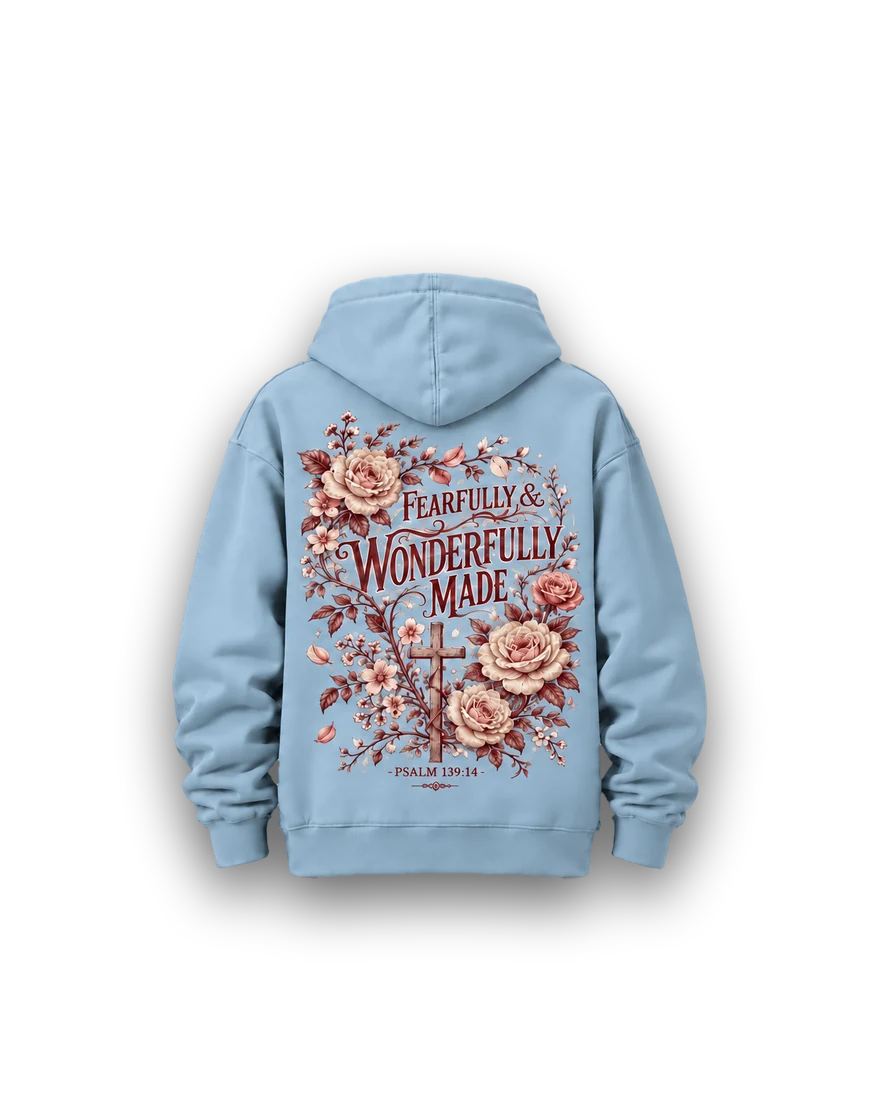
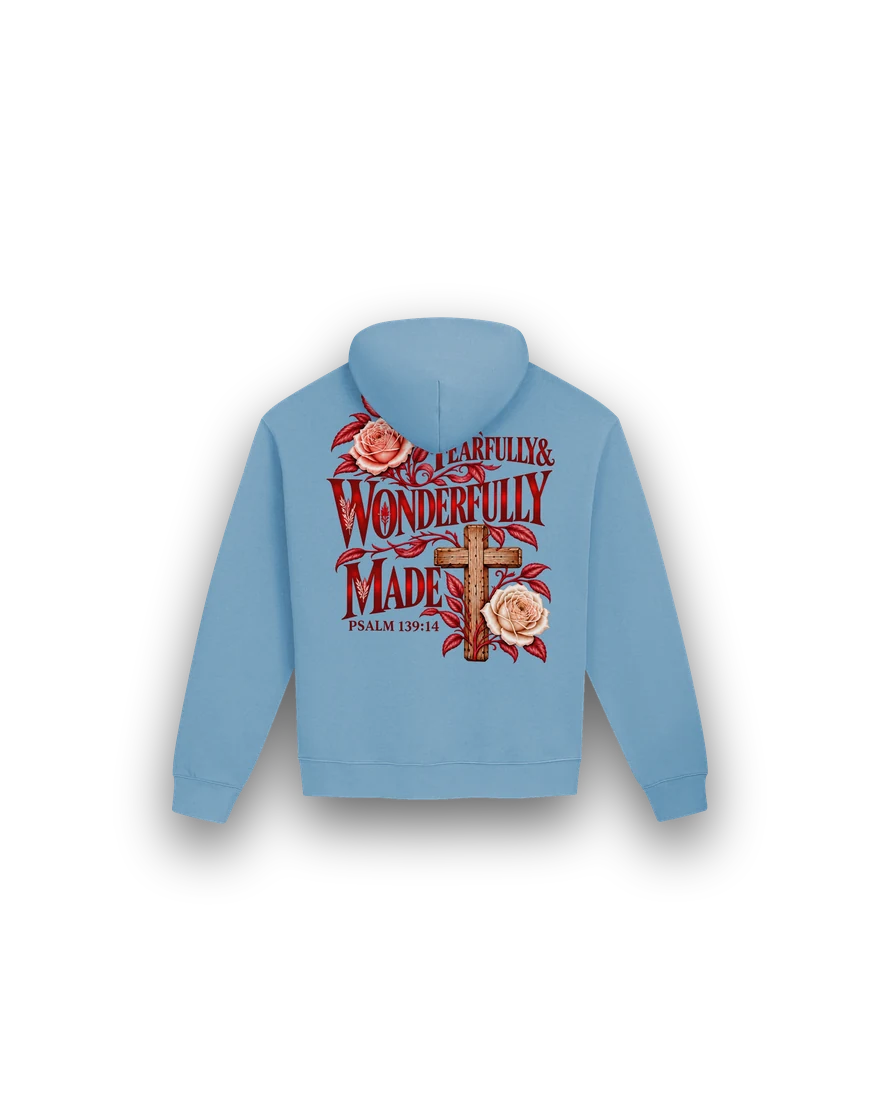
Use the corrected Wonderfully Made print on the site
The back print now spells WONDERFULLY correctly, so Wonderfully Made shows
Fourthwall's renders like the other nine pieces. Its design changed after
the mockup (roses and a cross beside the words), so its close-up is the
print file itself laid on the hoodie's own fabric instead of a mockup crop.
Copy updated to match the new layout.

Claude-Session: https://claude.ai/code/session_01VmqVMxiDGTr2J5oF5LgYP4

Changed region(s): [[0.1841, 0.2473, 0.8284, 0.8655]]

diff --git a/assets/mockups/compose.py b/assets/mockups/compose.py
@@ -59,9 +59,10 @@ CAPS = ("lambs-mark", "signature-cap")
 
 # Views in display order. The first is the listing image and always shows the whole garment.
 # `detail` is a close crop of the main artwork: (view, center x, center y, width), as fractions
-# of the cutout. `detail_source: "mockup"` takes that crop (and the home story scene) from the
-# approved mockup instead of the Fourthwall render: on the hoodie renders the hood hangs over the
-# top of the back print, so the close-up shows the whole design from the mockup.
+# of the cutout. On the hoodie renders the hood hangs over the top of the back print, so hoodie
+# close-ups show the whole design another way: `detail_source: "mockup"` crops the approved mockup
+# (also used for the home story scene), and `"print"` lays the back print file itself on the
+# hoodie's fabric (for a design that changed after its mockup was made).
 VIEWS = {
     "still-the-storm": {"views": ["front", "back"], "detail": ("front", 0.5, 0.5, 0.72)},
     "by-his-hem": {"views": ["back", "front"], "detail": ("back", 0.47, 0.42, 0.74)},
@@ -70,7 +71,7 @@ VIEWS = {
     "stone-in-motion": {"views": ["back", "front"], "detail": ("back", 0.52, 0.45, 0.74)},
     "to-live-is-christ": {"views": ["front", "back"], "detail": ("front", 0.5, 0.48, 0.66)},
     "the-passage": {"views": ["back", "front"], "detail": ("back", 0.5, 0.45, 0.62), "detail_source": "mockup"},
-    "wonderfully-made": {"views": ["back", "front"], "detail": ("back", 0.5, 0.45, 0.62), "detail_source": "mockup"},
+    "wonderfully-made": {"views": ["back", "front"], "detail": ("back", 0.5, 0.45, 0.62), "detail_source": "print"},
     "lambs-mark": {"views": ["front", "side", "back"], "detail": ("front", 0.5, 0.4, 0.56)},
     "signature-cap": {"views": ["front", "side", "back"], "detail": ("front", 0.5, 0.42, 0.52)},
 }
@@ -299,7 +300,8 @@ def story(slug: str) -> None:
     )
 
     # The garment hangs centred in the opening; its shadow falls on the back wall.
-    cutout = load_garment(slug, STORY_VIEW[slug], VIEWS[slug].get("detail_source", "render"))
+    source = VIEWS[slug].get("detail_source", "render")
+    cutout = load_garment(slug, STORY_VIEW[slug], "render" if source == "print" else source)
     hat = slug in CAPS
     open_w = w - 2 * 78
     box_w, box_h = open_w * (0.74 if hat else 0.74), (sill_top - 200) * (0.6 if hat else 0.88)
@@ -322,6 +324,40 @@ def story(slug: str) -> None:
     print(slug, "story")
 
 
+def print_closeup(slug: str, view: str) -> Image.Image:
+    """The back print file on a patch of the garment's own fabric, taken from the render below the
+    print, so the close-up shows the whole design in its real colors with the knit showing through."""
+    garment = load_garment(slug, view)
+    g = np.asarray(garment.convert("RGB"), np.float32) / 255
+    gh, gw = g.shape[:2]
+    patch = g[int(gh * 0.72) : int(gh * 0.84), int(gw * 0.34) : int(gw * 0.66)]
+    # Mirror-tile the patch to fill the frame, then soften the repeat with a little blur.
+    reps = (DETAIL_H // patch.shape[0] + 2, DETAIL_W // patch.shape[1] + 2)
+    tile = np.concatenate([patch, patch[::-1]], 0)
+    tile = np.concatenate([tile, tile[:, ::-1]], 1)
+    fabric = np.tile(tile, (reps[0] // 2 + 1, reps[1] // 2 + 1, 1))[:DETAIL_H, :DETAIL_W]
+    fabric_img = Image.fromarray((fabric * 255).astype(np.uint8)).filter(ImageFilter.GaussianBlur(0.6))
+    fabric = np.asarray(fabric_img, np.float32) / 255
+    yy, xx = np.mgrid[0:DETAIL_H, 0:DETAIL_W].astype(np.float32)
+    v = np.hypot(xx / DETAIL_W - 0.5, yy / DETAIL_H - 0.45)
+    fabric *= (1.04 - 0.16 * np.clip(v / 0.7, 0, 1) ** 2)[..., None]
+
+    art = Image.open(RENDERS / f"{slug}-print.webp").convert("RGBA")
+    scale = min(DETAIL_W * 0.86 / art.width, DETAIL_H * 0.88 / art.height)
+    art = art.resize((round(art.width * scale), round(art.height * scale)), Image.LANCZOS)
+    x, y = (DETAIL_W - art.width) // 2, (DETAIL_H - art.height) // 2
+    a = np.zeros((DETAIL_H, DETAIL_W), np.float32)
+    rgb = np.zeros((DETAIL_H, DETAIL_W, 3), np.float32)
+    arr = np.asarray(art, np.float32) / 255
+    a[y : y + art.height, x : x + art.width] = arr[..., 3]
+    rgb[y : y + art.height, x : x + art.width] = arr[..., :3]
+    # Ink takes on the knit: modulate it by the fabric's local light and shade.
+    luma = fabric.mean(-1, keepdims=True)
+    ink = np.clip(rgb * (luma / max(float(luma.mean()), 1e-3)) ** 0.7, 0, 1)
+    out = fabric * (1 - a[..., None]) + ink * a[..., None]
+    return Image.fromarray((np.clip(out, 0, 1) * 255).round().astype(np.uint8), "RGB")
+
+
 def main() -> None:
     for slug, spec in VIEWS.items():
         folder = OUT / slug
@@ -335,6 +371,11 @@ def main() -> None:
             print(folder.name, view)
 
         view, cx, cy, frac = spec["detail"]
+        if spec.get("detail_source") == "print":
+            print_closeup(slug, view).save(folder / "detail.webp", "WEBP", quality=88, method=6)
+            print(folder.name, "detail (print)")
+            story(slug)
+            continue
         cutout = load_garment(slug, view, spec.get("detail_source", "render"))
         # Crop the artwork, then lay it on the same surface so any edge that shows matches.
         cw = round(cutout.width * frac)

diff --git a/assets/mockups/fourthwall.py b/assets/mockups/fourthwall.py
@@ -2,17 +2,26 @@
 Downloads the product renders from the Fourthwall shop listed in fourthwall.json into
 fourthwall/<slug>-<view>.webp. They are already cut out (transparent background), so compose.py
 places them on each piece's surface directly; these are the item-accurate images the site shows.
-Pieces marked `hold` are skipped and keep their mockup cutouts.
+Pieces marked `hold` are skipped and keep their mockup cutouts. A piece's `print` (its back print
+file) is saved as fourthwall/<slug>-print.webp for compose.py's close-up.
 
     python3 assets/mockups/fourthwall.py
 """
 
+import io
 import json
 import urllib.request
 from pathlib import Path
 
+from PIL import Image
+
 HERE = Path(__file__).parent
 OUT = HERE / "fourthwall"
+
+
+def fetch(url: str) -> bytes:
+    with urllib.request.urlopen(url, timeout=60) as res:
+        return res.read()
 
 
 def main() -> None:
@@ -25,10 +34,15 @@ def main() -> None:
             print(f"{slug}: held ({spec['hold']})")
             continue
         for view, name in spec["views"].items():
-            with urllib.request.urlopen(manifest["base"] + name, timeout=60) as res:
-                data = res.read()
+            data = fetch(manifest["base"] + name)
             (OUT / f"{slug}-{view}.webp").write_bytes(data)
             print(f"{slug}-{view}: {len(data) // 1024} KB")
+        if "print" in spec:
+            # Print files are large PNGs; a 1400px-tall copy is plenty for an 800x1000 close-up.
+            art = Image.open(io.BytesIO(fetch(manifest["base"] + spec["print"]))).convert("RGBA")
+            art.thumbnail((1400, 1400), Image.LANCZOS)
+            art.save(OUT / f"{slug}-print.webp", "WEBP", quality=92, method=6)
+            print(f"{slug}-print: {art.size}")
 
 
 if __name__ == "__main__":

diff --git a/apps/web/AGENTS.md b/apps/web/AGENTS.md
@@ -54,7 +54,7 @@ src/
 - **Styling**: brand classes (`.aw-*`) for type and components, Tailwind utilities for layout, tokens for every color. No raw hex. Garment swatches go through `colorCss(color)` from `@/shared`: the brand token when the color is known, otherwise Fourthwall's swatch hex (product data, not styling). Fonts are self-hosted from `@fontsource-variable/*` via `next/font/local` (no Google Fonts requests).
 - **Motion**: never hide words. `<Reveal>` is CSS only: a short scroll-linked rise that starts at 40% opacity, so text is readable without JavaScript, in browsers without scroll-driven animation and with reduced motion. The hero rises in 420ms; the Behold name opens from the center as it scrolls in; in design stories the garment drifts a few percent against its niche (`motion/react`, still under reduced motion) while the words stay put. Anchors land below the header (`scroll-margin-top` on every `[id]`). Glows use `.soft-glow` (site.css): an ellipse that fades out inside a box larger than the block it lights, so no edge shows as a line.
 - **React 19 lint rules**: don't call setState synchronously in effects. Adjust state during render when a prop changes (see `product-grid.tsx`, `site-header.tsx`).
-- **Images**: product images are plain `<img>`. `public/products/<slug>/` holds the site's styled product images: Fourthwall's render of the product (or the approved mockup until a render is ready) on each piece's own surface, made by `assets/mockups/fourthwall.py` and `compose.py`. The listing view shows the whole garment, `detail` is the artwork close-up (from the mockup for hoodies, whose renders hide the top of the back print under the hood), and `story-niche.webp` + `story-piece.webp` are the two layers of the home design-story scene (the page builds their URLs from the slug, so every piece needs them). These images are used for previews and live products alike; Fourthwall's own photos are only a fallback (`catalog-merge.ts`). The founder portrait is `public/about/richard-{480,960}.webp`.
+- **Images**: product images are plain `<img>`. `public/products/<slug>/` holds the site's styled product images: Fourthwall's render of the product (or the approved mockup until a render is ready) on each piece's own surface, made by `assets/mockups/fourthwall.py` and `compose.py`. The listing view shows the whole garment, `detail` is the artwork close-up (for hoodies, whose renders hide the top of the back print under the hood, a mockup crop or the print file on the hoodie's fabric), and `story-niche.webp` + `story-piece.webp` are the two layers of the home design-story scene (the page builds their URLs from the slug, so every piece needs them). These images are used for previews and live products alike; Fourthwall's own photos are only a fallback (`catalog-merge.ts`). The founder portrait is `public/about/richard-{480,960}.webp`.
 - **A new release**: add a collection (slug, name, number, tagline, story, scriptureRef) and its products to `catalog.json`, each with a Scripture record (exact NIV and KJV text) and a design story (theme, call, art, meaning), and run `assets/mockups/compose.py` for its images and story scene. Latest Drop, the home page, Collections and the shop selector pick it up. `featured: true` picks the two home design stories and the hero pieces (the first featured piece in release order is shown largest; the piece carrying the release verse fills the third spot).
 - **Previews**: a content entry with no Fourthwall product is listed with `preview: true` (content price, sizes and mockups; SKUs like `A3-B01-FADED-BLACK-M`). The product page says ordering isn't open and offers "Save to bag"; the bag explains it only saves selections and shows a notify form instead of checkout; `startCheckout` refuses preview lines.
 

diff --git a/docs/BRAND.md b/docs/BRAND.md
@@ -80,7 +80,7 @@ Motion is short and never hides words: decoration may draw or move, but artwork,
 - Behold surfaces: Still the Storm, deep storm slate with cloud-soft texture lit from above; By His Hem, muted sage plaster (the rust print's complement); Thorns to Lilies, deep oxblood plaster under a spotlight; Torn Veil, warm parchment crossed by a shaft of light; Stone in Motion, dusty cornflower stone with a fine speckle; To Live Is Christ, warm ochre plaster lit from above; The Passage, burnt terracotta plaster under a spotlight; Wonderfully Made, dusty rose paper lit from above; Lamb's Mark, cool bone linen with a narrow oxblood band at the base; Signature Cap, warm concrete with a fine speckle lit from above.
 - Home design stories use a rendered scene per piece: the garment hanging in a pointed stone niche in its surface color (`story-niche.webp` and `story-piece.webp` beside each piece's images). No line art behind the pieces.
 - The product stays the focal point: preserve the artwork and garment colors exactly; the listing image always shows the whole garment; artwork crops are secondary images; no props or textures over the print; no fog, dramatic effects, glows or white outlines; clean garment edges. Changing the page color doesn't fix an embedded white background: cut the garment out and composite it.
-- Keep the source images intact. In the repo, `assets/mockups/fourthwall.json` lists each product's Fourthwall renders and `fourthwall.py` downloads them; `assets/mockups/source` holds the approved mockups and `cutout.py` cuts them out; `compose.py` builds the site images from the renders, falling back to the mockups. On the hoodies the hood hangs over the top of the back print in Fourthwall's render, so each hoodie's third image is a close-up of the whole back design taken from the mockup.
+- Keep the source images intact. In the repo, `assets/mockups/fourthwall.json` lists each product's Fourthwall renders and `fourthwall.py` downloads them; `assets/mockups/source` holds the approved mockups and `cutout.py` cuts them out; `compose.py` builds the site images from the renders, falling back to the mockups. On the hoodies the hood hangs over the top of the back print in Fourthwall's render, so each hoodie's third image is a close-up of the whole back design: a crop of the mockup, or (for Wonderfully Made, whose design changed after its mockup) the print file laid on the hoodie's own fabric.
 - New apparel art: symbols only (above), engraved line work, bone, black, deep red and the occasional single accent ink (Stone in Motion's cobalt).
 
 ## Voice

diff --git a/docs/TODOS.md b/docs/TODOS.md
@@ -57,7 +57,6 @@ Use a Fourthwall shop that belongs to Awebound (not another brand's shop).
 - [x] Storefront token created (Fourthwall admin → Settings → For developers) and set in `apps/web/.env.local`. Add it to Vercel too (step 1 above).
 - [ ] **Publish the products.** All ten Behold products are in the shop but hidden, so the Storefront API doesn't return them and the site lists them as previews. Publishing them (public access, available) turns on live prices, sizes and checkout.
 - [x] The ten Behold products exist in Fourthwall and each content entry carries its `fourthwallSlug` (e.g. `thorns-to-lillies-tee`). Colors use Fourthwall's names (`Ecru`, `French Navy`, `Black`, `Cypress`, `Carolina Blue`), mapped to brand swatch tokens. A new design needs an entry in the content file too (ID, collection, category, Scripture, copy); the server log lists mismatches.
-- [ ] **Wonderfully Made print**: the back print file spells WONDERFULLY as WONDERFULY. Fix it in Fourthwall, then update its URLs in `assets/mockups/fourthwall.json`, remove `hold`, and run `fourthwall.py` and `compose.py`. Until then the site shows the mockup.
 - [ ] **Hoodie back prints**: in Fourthwall's renders the hood covers the top of the back print ("The veil" on Torn Veil, "I will" on The Passage). Check the placement in the Fourthwall designer, or on a sample, before launch.
 - [ ] **Lamb’s Mark side**: the Fourthwall design has no John 1:29 embroidery on the side (its description mentions it). Add it in the designer if it's meant to be there; the site's copy currently matches the design.
 - [ ] Name colors like the brand garments (`Washed coal`, `Faded black`, `Warm bone`, …) so the site shows the brand swatches. Other names fall back to Fourthwall's swatch color.
